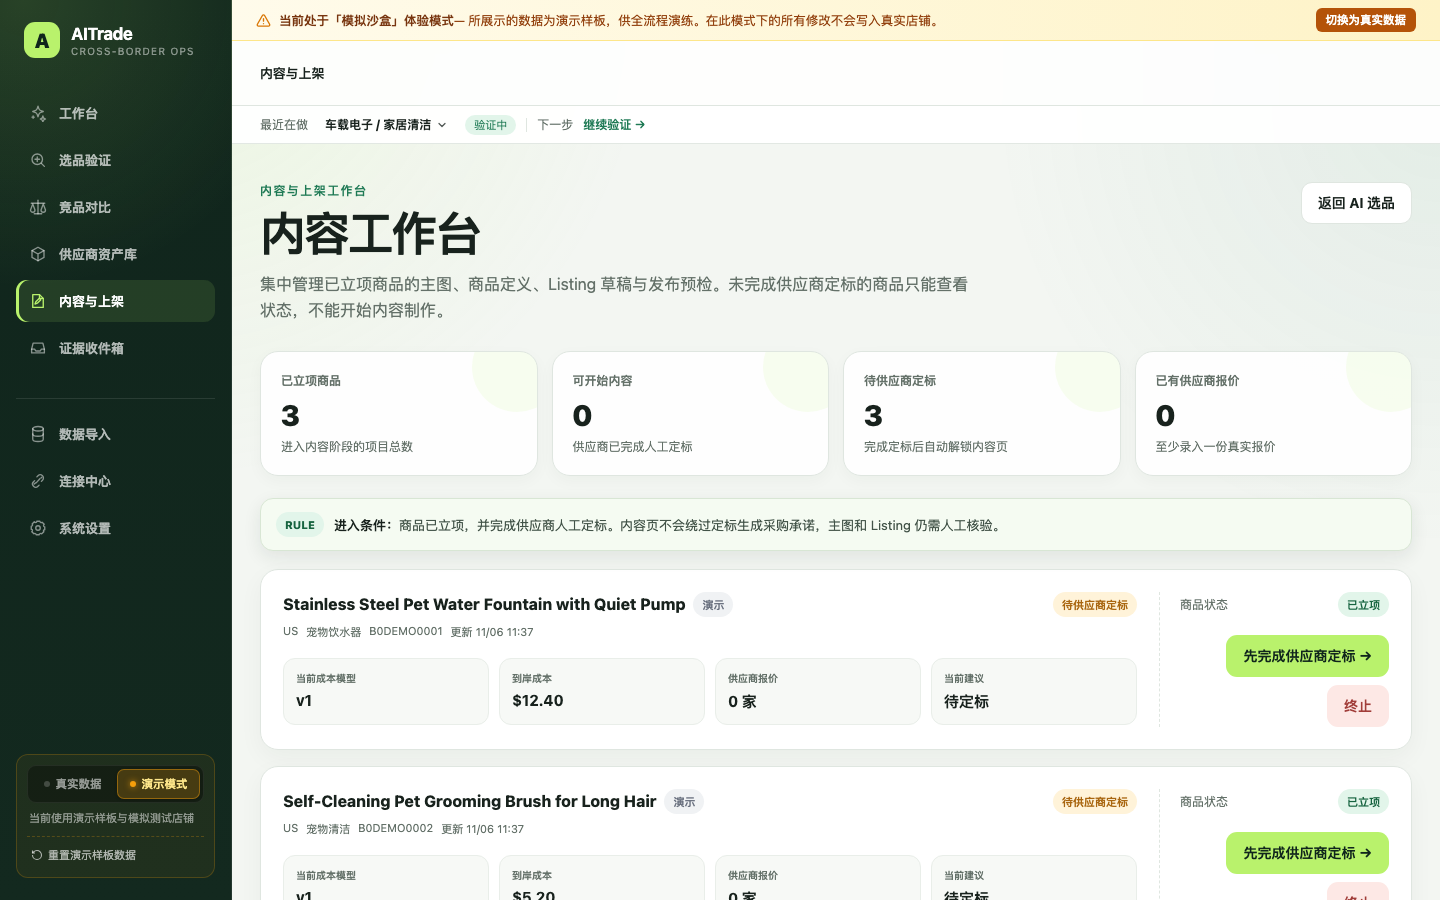
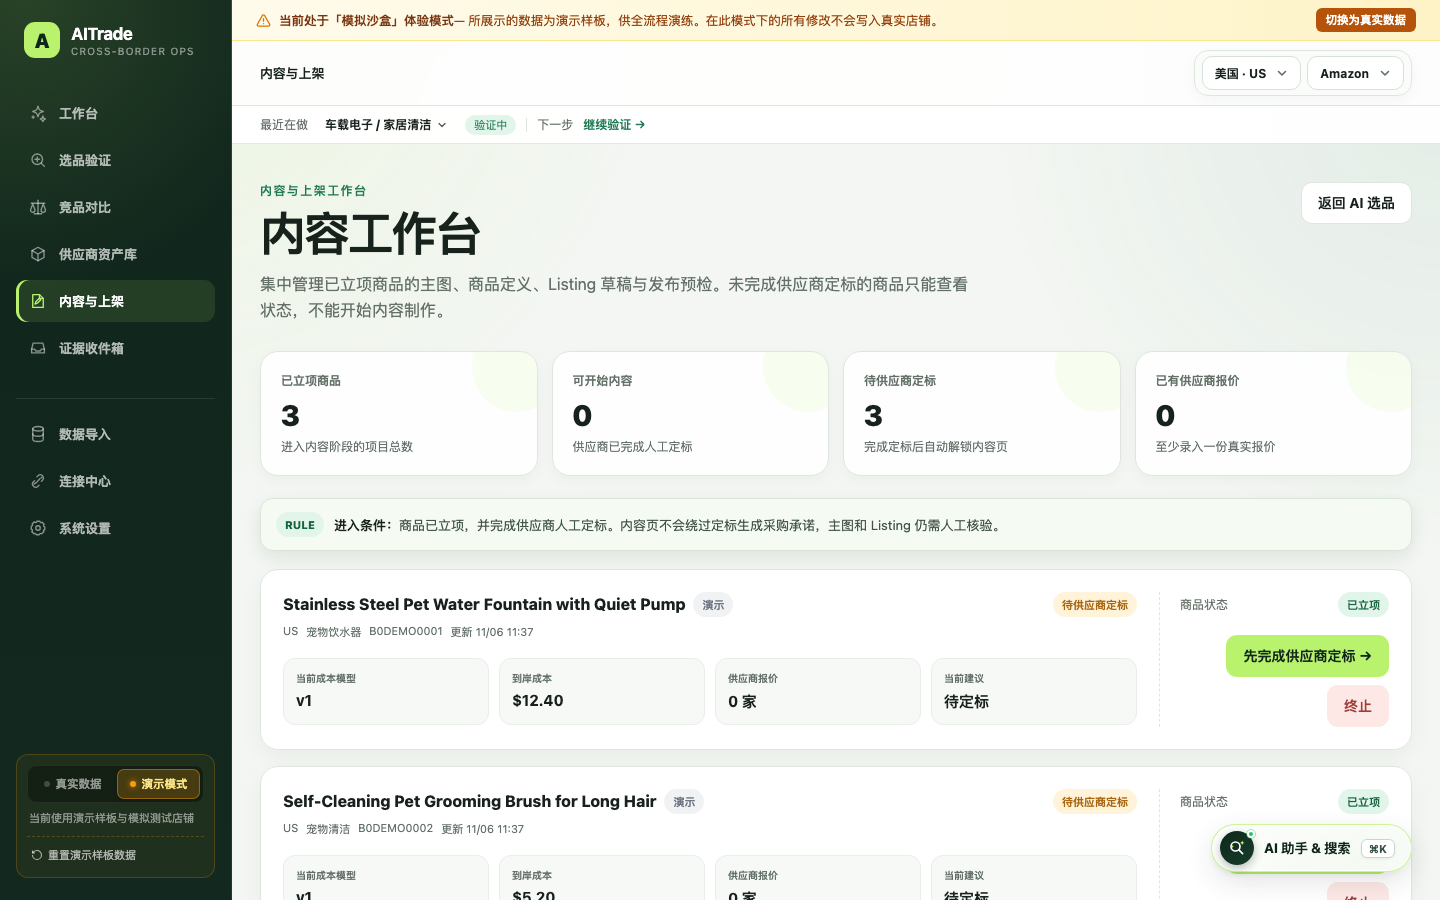
docs: 更新 README、重新截取 5 张全景截图并优化看板单列视觉上限

Changed region(s): [[0.8438, 0.9022, 0.9688, 0.9956], [0.9062, 0.0622, 0.9688, 0.0933], [0.8438, 0.0622, 0.875, 0.0933]]

diff --git a/src/components/dashboard-pipeline-kanban.tsx b/src/components/dashboard-pipeline-kanban.tsx
@@ -91,6 +91,12 @@ export function DashboardPipelineKanban({
       }
     : undefined;
 
+  const stage1Limit = stage1Task ? 3 : 4;
+  const stage2Limit = stage2Task ? 3 : 4;
+  const stage3Limit = stage3Task ? 3 : 4;
+  const stage4Limit = stage4Task ? 3 : 4;
+  const stage5Limit = stage5Task ? 3 : 4;
+
   const columns = [
     {
       id: "stage1",
@@ -102,7 +108,7 @@ export function DashboardPipelineKanban({
       badgeColor: "#3766a6",
       badgeBg: "#e8f0fc",
       viewAllHref: `/competitors?market=${encodeURIComponent(marketCode)}&platform=${encodeURIComponent(platformCode)}`,
-      items: stage1Items.slice(0, 4).map((r) => ({
+      items: stage1Items.slice(0, stage1Limit).map((r) => ({
         id: r.id,
         title: r.title,
         tag: `${r.competitors.length} 款竞品`,
@@ -123,7 +129,7 @@ export function DashboardPipelineKanban({
       badgeColor: "#a96610",
       badgeBg: "#fff3d9",
       viewAllHref: "/sourcing",
-      items: stage2Items.slice(0, 4).map((c) => ({
+      items: stage2Items.slice(0, stage2Limit).map((c) => ({
         id: c.id,
         title: c.title,
         tag: c.category || "待分类",
@@ -144,7 +150,7 @@ export function DashboardPipelineKanban({
       badgeColor: "#9333ea",
       badgeBg: "#f3e8ff",
       viewAllHref: "/sourcing",
-      items: stage3Items.slice(0, 4).map((c) => {
+      items: stage3Items.slice(0, stage3Limit).map((c) => {
         const res = c.costModel?.results;
         return {
           id: c.id,
@@ -168,7 +174,7 @@ export function DashboardPipelineKanban({
       badgeColor: "#1f7a55",
       badgeBg: "#e2f5ea",
       viewAllHref: "/content",
-      items: stage4Items.slice(0, 4).map((c) => ({
+      items: stage4Items.slice(0, stage4Limit).map((c) => ({
         id: c.id,
         title: c.title,
         tag: `已立项 · ${c.asin}`,
@@ -189,7 +195,7 @@ export function DashboardPipelineKanban({
       badgeColor: "#10251c",
       badgeBg: "#dfe6e0",
       viewAllHref: "/content",
-      items: stage5Items.slice(0, 4).map((c) => ({
+      items: stage5Items.slice(0, stage5Limit).map((c) => ({
         id: c.id,
         title: c.title,
         tag: "Flat File 就绪",

diff --git a/README.md b/README.md
@@ -15,7 +15,10 @@
 ## 功能
 
 - 侧边栏「真实数据 / 演示模式」双选切换：全局支持「真实数据 (Live)」与「演示模式 (Sandbox)」环境平滑切换。演示模式下展示预置经典选品样板与模拟测试店铺，顶部呈现沙盒操作警告，支持一键重置回初始样板；切换至「真实数据」后彻底过滤 demo 数据，仅展示真实店铺与核准数据，未录入真实商品时提供清晰的业务启航指引。
-- 首页「全生命周期 5 阶流水线看板 (Pipeline Kanban)」与「今日待办」：按「国家 × 平台」隔离数据，将全盘项目规整为 5 阶严密业务漏斗（`1. 竞品初筛` ➔ `2. 寻源询价` ➔ `3. 财务核准` ➔ `4. 内容打磨` ➔ `5. 渠道就绪`），支持看板/紧凑列表双重视图切换，每张卡片附带一键直达的“下一步待办”快捷动作。
+- 首页「全生命周期 5 阶流水线看板 (Pipeline Kanban)」与「今日待办」：按「国家 × 平台」隔离数据，将全盘项目规整为 5 阶严密业务漏斗（`1. 竞品初筛` ➔ `2. 寻源询价` ➔ `3. 财务核准` ➔ `4. 内容打磨` ➔ `5. 渠道就绪`）。每列严格保持视觉整齐（单列上限 4 张卡片：有置顶待办时展示 3 个常规项，无待办展示 4 个项），超额项目在列底部提供「查看全部 N 个项目 →」直达对应阶段全量工作台列表；支持看板/紧凑列表双重视图切换，每张卡片附带一键直达的“下一步待办”快捷动作。
+- 全局常驻「AI 操盘手助手」与「全域穿梭检索 (Global Spotlight)」：右下角常驻精致悬浮胶囊，支持全局快捷键 `⌘K`（或 `Ctrl+K`）随时呼出。内置双模式：
+  - **🔍 全域穿梭检索**：实时模糊匹配候选品案卷、竞品对标研报、1688 询价单、财务测算、Flat File 导出与系统设置，键盘方向键配合回车瞬时直达；
+  - **✨ 跨境操盘手 AI 业务助手**：内置 18% 门禁倒推、1688 供应商询价压价话术、美日欧跨站点财税规则差异、外观/专利防侵权排查等实战业务指引；接入大模型或确定性操盘手知识库双轨驱动。
 - 竞品对比工作台（`/competitors`）：按「国家 × 平台」隔离研报，支持 1~4 个竞品链接或 ASIN 的横向对标；结合 HHI 垄断指数、评论对数阻力、价格变异系数 CV、贝叶斯评分差评改善胜率构建 5 大科学量化支柱（商品指数 0~100）。研报内集成 **「⚡ 真实工厂报价核算与一键正式立项 (New Case)」**：填入 1688 实报单价（RMB）即时联动汇率、头程运费与 FBA 费率秒测毛利率与财务机会分，一键建立正式商品案卷并关联竞品 ASIN 矩阵、反制五点文案与 1688 RFQ 单。
 - 亚马逊竞品采集 Chrome 扩展（`extensions/aitrade-competitor-capture/`）：在商品详情页由用户点击采集前台真实售价、评分、评论数、五点描述与 Top 差评原文，上传后逐字段标为「已采集」，AI 不得覆盖；采集结果进入「待确认」研报而非无标记结论，且端点只接受本机来源，避免复制粘贴与机器人验证码拦截。
 - 真实世界交付与决策报表：
